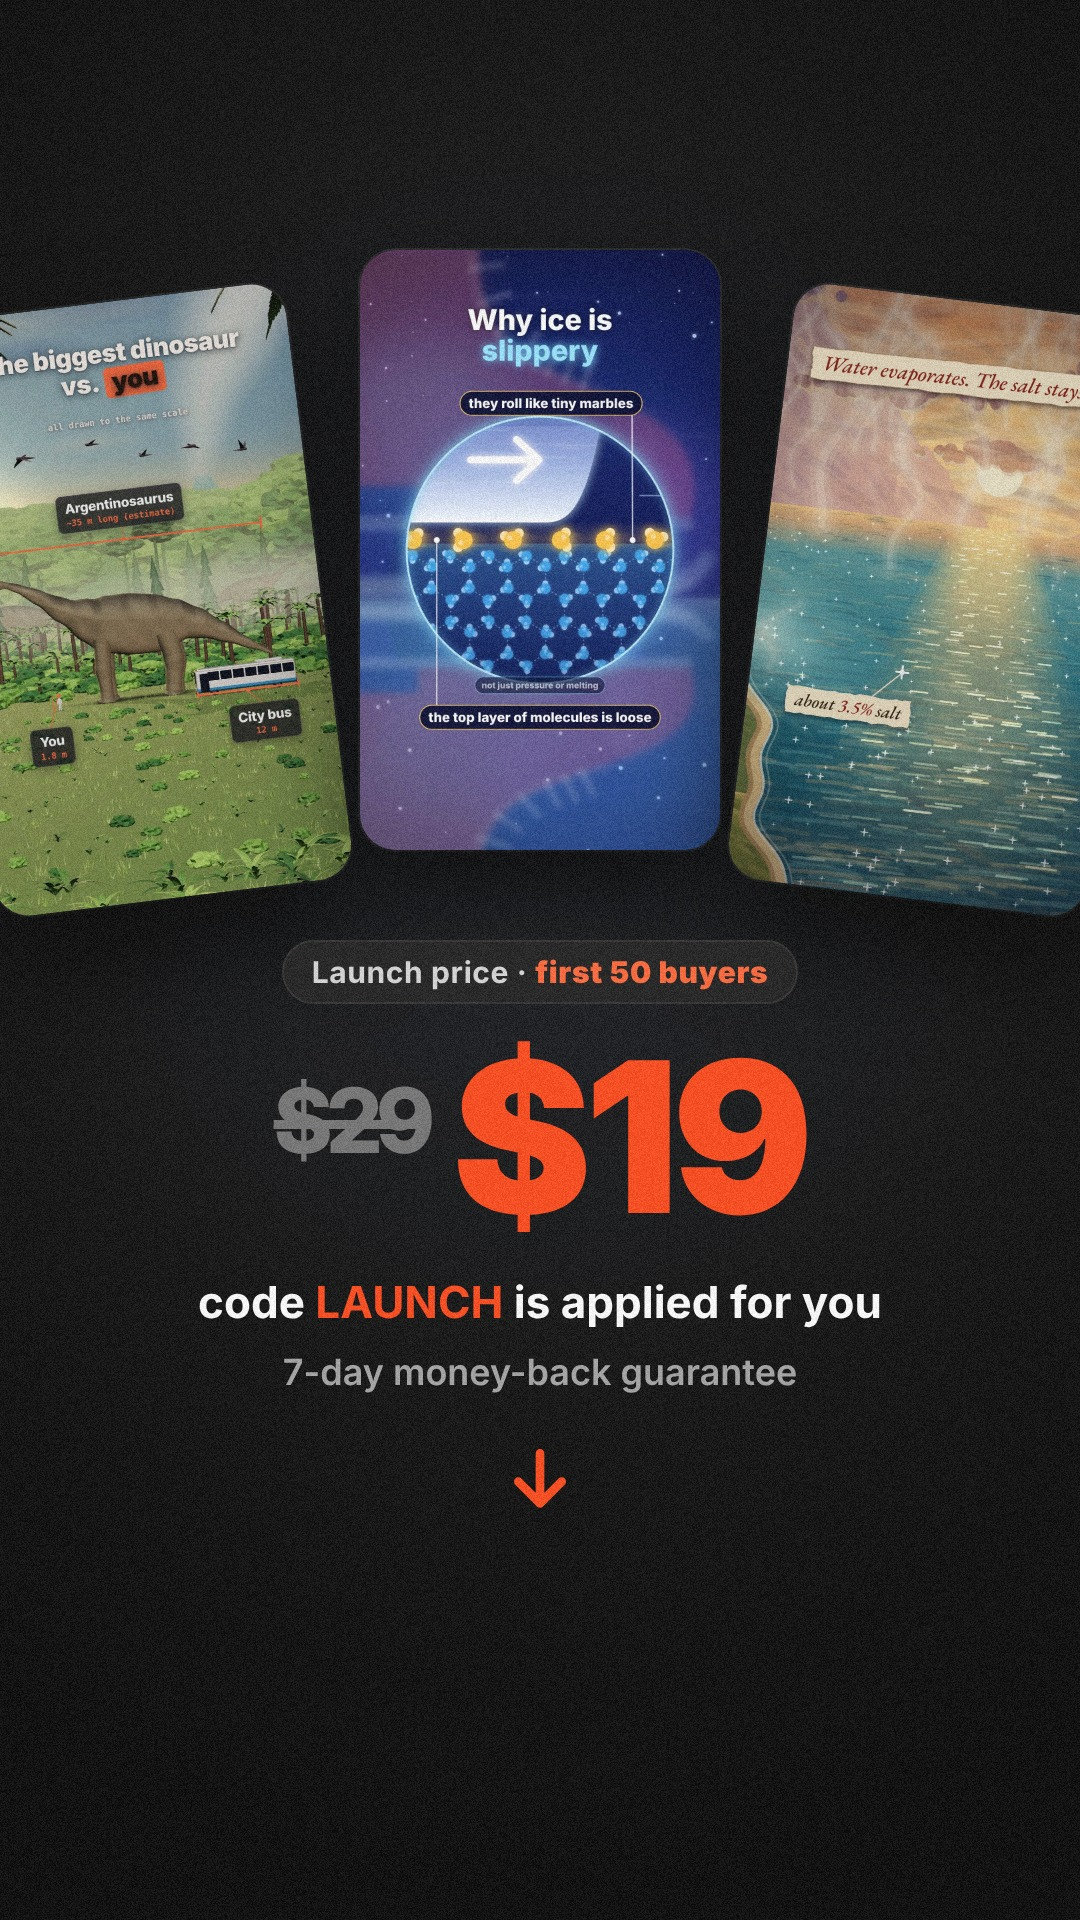
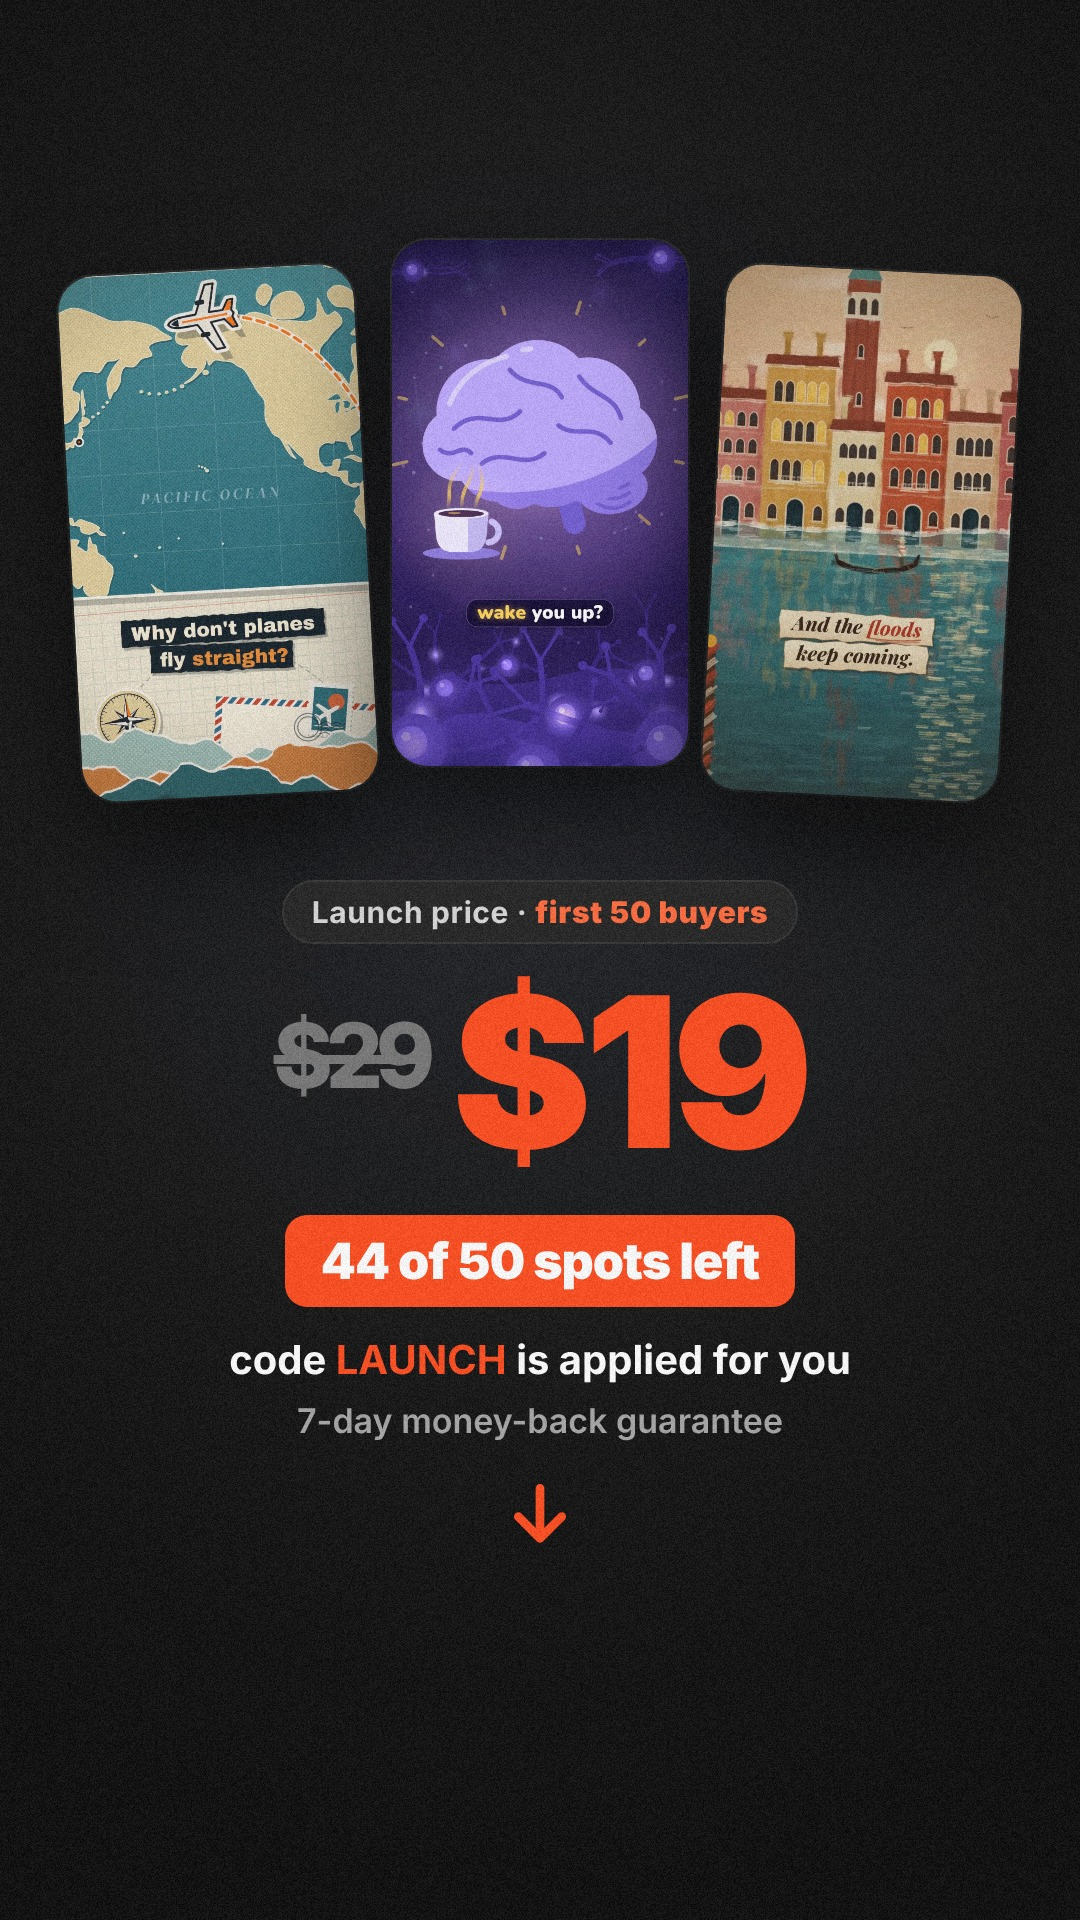
stories1711: story 4 with the launch animations, real spots-left count
Claude-Session: https://claude.ai/code/session_011mgQaQ6TDqDC7GsjKC1yQd

diff --git a/hf/videos/stories1711/stories.html b/hf/videos/stories1711/stories.html
@@ -66,13 +66,14 @@ body{background:#000;font-family:Inter,sans-serif;color:#fff}
 
 <!-- 4: offer -->
 <div class="s" id="s4">
-  <div class="card" style="left:-40px;top:300px;width:360px;height:600px;transform:rotate(-7deg);opacity:.9"><img src="img/dino.jpg"></div>
-  <div class="card" style="left:360px;top:250px;width:360px;height:600px"><img src="img/ice.jpg"></div>
-  <div class="card" style="left:760px;top:300px;width:360px;height:600px;transform:rotate(7deg);opacity:.9"><img src="img/sea.jpg"></div>
-  <div style="position:absolute;left:0;right:0;top:940px;text-align:center"><span class="pill">Launch price · <b>first 50 buyers</b></span></div>
-  <div class="h" style="position:absolute;left:0;right:0;top:1030px;text-align:center;font-size:210px"><span style="font-size:90px;color:#777;text-decoration:line-through;font-weight:800;vertical-align:60px;margin-right:24px">$29</span><span class="acc">$19</span></div>
-  <div style="position:absolute;left:0;right:0;top:1275px;text-align:center;font-size:44px;font-weight:700">code <span class="acc">LAUNCH</span> is applied for you</div>
-  <div style="position:absolute;left:0;right:0;top:1350px;text-align:center;font-size:36px;font-weight:600;color:#a6a6a6">7-day money-back guarantee</div>
-  <svg style="position:absolute;left:500px;top:1440px;width:80px;height:80px" viewBox="0 0 24 24" fill="none" stroke="#ff4b1f" stroke-width="2.6" stroke-linecap="round" stroke-linejoin="round"><path d="M12 4v15M5.5 12.5L12 19l6.5-6.5"/></svg>
+  <div class="card" style="left:70px;top:270px;width:296px;height:526px;transform:rotate(-3deg)"><img src="img/web_planes.jpg"></div>
+  <div class="card" style="left:392px;top:240px;width:296px;height:526px"><img src="img/web_coffee.jpg"></div>
+  <div class="card" style="left:714px;top:270px;width:296px;height:526px;transform:rotate(3deg)"><img src="img/web_venice.jpg"></div>
+  <div style="position:absolute;left:0;right:0;top:880px;text-align:center"><span class="pill">Launch price · <b>first 50 buyers</b></span></div>
+  <div class="h" style="position:absolute;left:0;right:0;top:965px;text-align:center;font-size:210px"><span style="font-size:90px;color:#777;text-decoration:line-through;font-weight:800;vertical-align:60px;margin-right:24px">$29</span><span class="acc">$19</span></div>
+  <div style="position:absolute;left:0;right:0;top:1215px;text-align:center"><span style="display:inline-block;background:#ff4b1f;color:#fff;font-weight:900;font-size:50px;letter-spacing:-.02em;border-radius:22px;padding:16px 36px">44 of 50 spots left</span></div>
+  <div style="position:absolute;left:0;right:0;top:1335px;text-align:center;font-size:40px;font-weight:700">code <span class="acc">LAUNCH</span> is applied for you</div>
+  <div style="position:absolute;left:0;right:0;top:1400px;text-align:center;font-size:34px;font-weight:600;color:#a6a6a6">7-day money-back guarantee</div>
+  <svg style="position:absolute;left:500px;top:1475px;width:80px;height:80px" viewBox="0 0 24 24" fill="none" stroke="#ff4b1f" stroke-width="2.6" stroke-linecap="round" stroke-linejoin="round"><path d="M12 4v15M5.5 12.5L12 19l6.5-6.5"/></svg>
 </div>
 </body></html>
